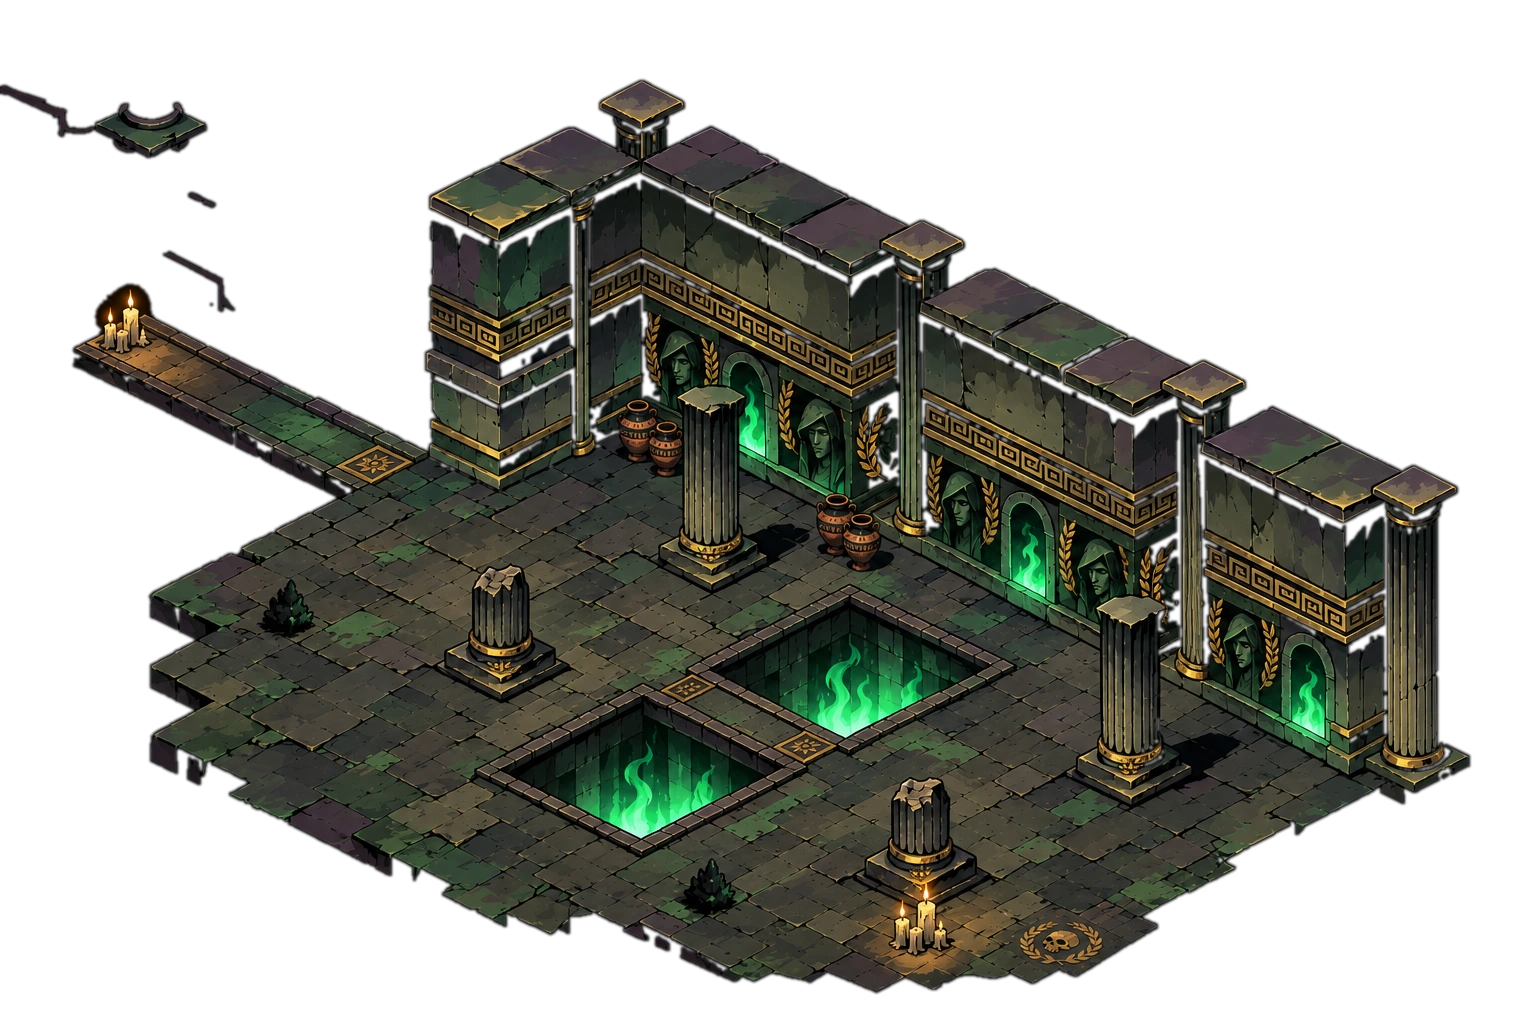
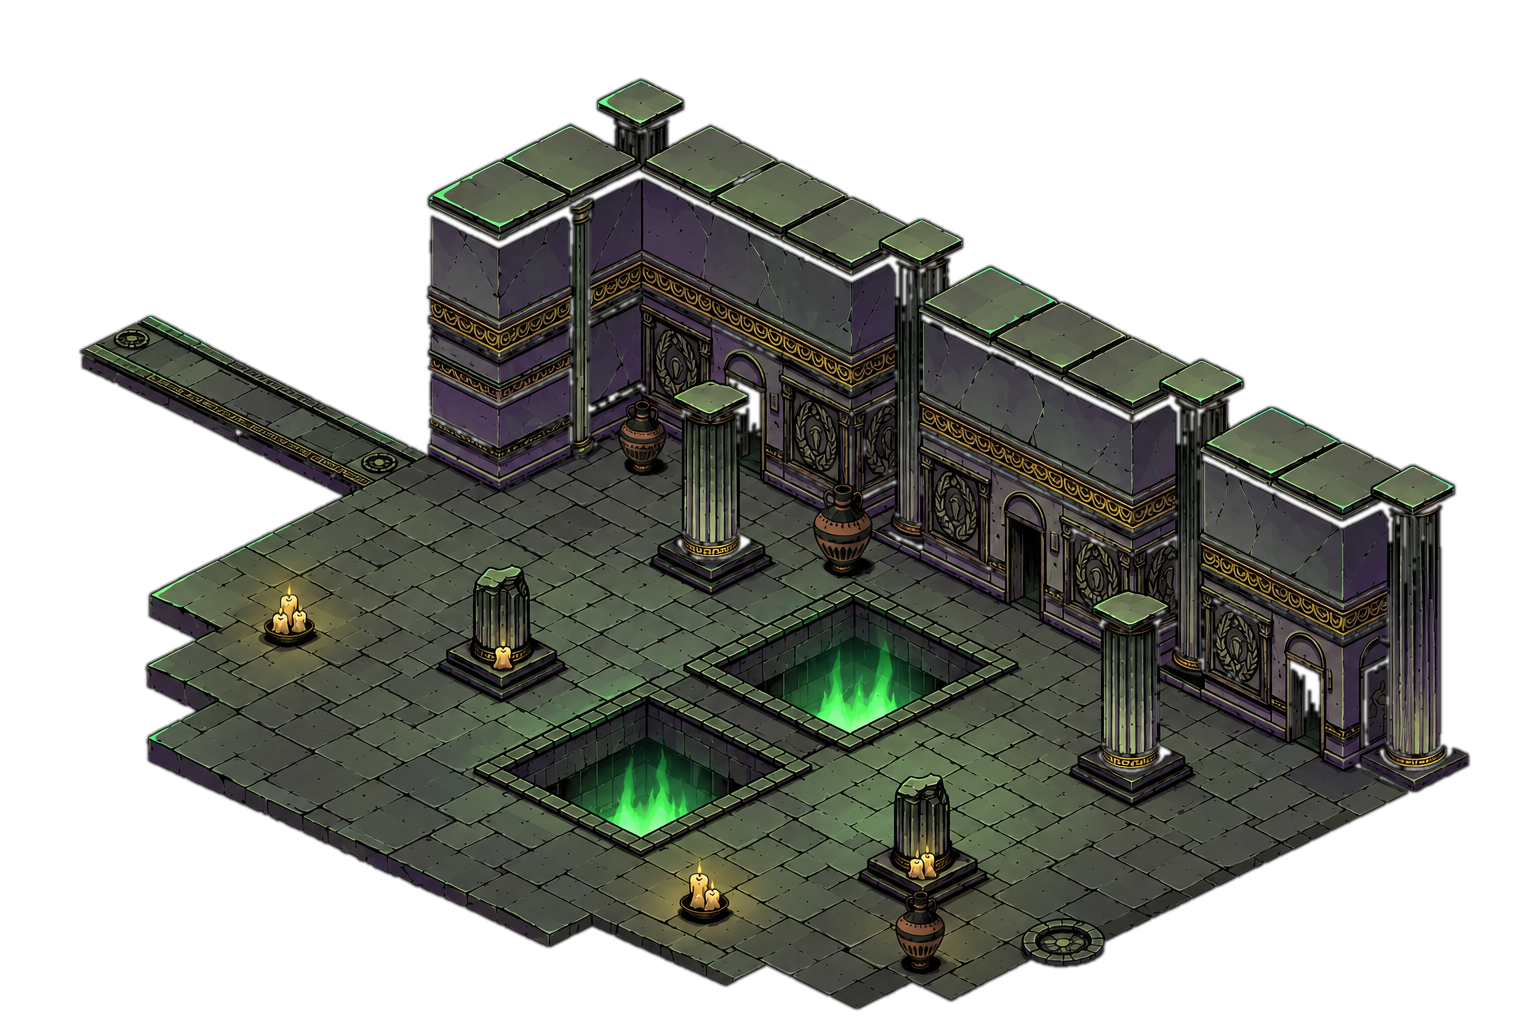
Restyle every temple room with the owner's inked v3 paintings
All five room paintings are replaced by the owner's v3 SOL restyles: heavy
black ink, flat cel shading and purple-tinted shadows, much closer to the
mockup. Each was checked against its guide (room 1 is an edge-for-edge
restyle of the painting it replaces); stray bits of neighbouring rooms were
blacked out, room 4's halves are cut along the terrace edge as before, and the
gallery painting's right end was shifted out one cell to cover column 77.
Props follow the new paintings.

The bot now only shoots a nest when a bullet-wide corridor to it is clear (it
kept firing into the column beside the altar's back nest).

Claude-Session: https://claude.ai/code/session_01SvL2i3XwgyMiUVEjEn1eMz

diff --git a/docs/paint_guides/README.md b/docs/paint_guides/README.md
@@ -12,11 +12,11 @@ the architecture where it is.
 | `temple_02_guide.png` | **current** 1536×1024 frame of the temple room (`--level=temple`), tall back walls, no HUD, no player |
 | `temple_02_lines.png` | the same frame as line art, for generators that follow outlines more strictly |
 | `temple_02_guide.json` | where the frame looks: `world_to_image` maps game positions to image pixels |
-| `stair_01_guide.png` / `_lines.png` / `_guide.json` | **room 4, upper half: THE GREAT STAIR** (the gallery and the stair down; `--look=65.94,2.44 --zoom=0.62`). `stair_01_painted_sol.webp` is the owner's SOL painting, in the game as `assets/rooms/stair_01` (gallery only). It leaves out the gallery's last two columns at the right (76-77) |
+| `stair_01_guide.png` / `_lines.png` / `_guide.json` | **room 4, upper half: THE GREAT STAIR** (the gallery and the stair down; `--look=65.94,2.44 --zoom=0.62`). `stair_01_painted_sol.webp` is the owner's SOL painting, in the game as `assets/rooms/stair_01` (gallery only). It stops at column 76; before import its painted right end (columns 75-76 and the edge lip) was copied one cell further along +i, so the floor reaches column 77 |
 | `undercroft_01_guide.png` / `_lines.png` / `_guide.json` | **room 4, lower half: THE UNDERCROFT** (the hall two levels down; `--look=71.94,12.98 --zoom=0.66`). `undercroft_01_painted_sol.webp` is the owner's SOL painting, in the game as `assets/rooms/undercroft_01` (everything below the terrace's top edge) |
 | `altar_01_guide.png` / `_lines.png` / `_guide.json` | **room 3, THE BONE ALTAR** (`--look=46.1,1.8 --zoom=0.72`). `altar_01_painted_sol.webp` is the owner's SOL painting of it, in the game as `assets/rooms/altar_01` |
 | `sanctum_01_guide.png` / `_lines.png` / `_guide.json` | **room 2, THE HOODED SANCTUM** (`--look=29.6,1.8 --zoom=0.72`). Prompt below. `sanctum_01_painted_sol.webp` is the owner's SOL painting of it, in the game as `assets/rooms/sanctum_01` |
-| `temple_01_*` | the first guide (closer framing). `temple_01_painted_sol.webp` is the first SOL painting (low walls); **`temple_01_painted_sol_v2_tall.webp` is the one in the game**: tall walls, painted at this guide's framing (the floor layout didn't change when the walls grew, so this guide's camera still fits) |
+| `temple_01_*` | the first guide (closer framing). `temple_01_painted_sol.webp` is the first SOL painting (low walls); `temple_01_painted_sol_v2_tall.webp` added tall walls at this guide's framing (the floor layout didn't change when the walls grew, so this guide's camera still fits); **`temple_01_painted_sol_v3.webp` is the one in the game**: the owner's inked restyle of v2 (same edges, heavy ink, purple shadows) |
 
 The step-by-step recipe for a new room is section 0 of `CLAUDE.md`. Helpers:
 `tools/rooms/guide_lines.py` (line art from a guide), `tools/rooms/check_paint.py`
@@ -29,6 +29,16 @@ VK_ICD_FILENAMES=/opt/lavapipe/lvp_icd.json xvfb-run -a -s "-screen 0 1536x1024x
   godot --path . --resolution 1536x1024 --fixed-fps 30 --audio-driver Dummy -- \
   --level=temple --look=5.0,7.6 --zoom=0.72 --paint-guide --shots=/tmp/guide --shot-every=5 --quit-after=2.2
 ```
+
+## The current style (v3)
+
+Every room painting in the game is now the owner's **v3** restyle: SOL repainted each
+earlier painting with heavy black ink, flat cel shading and purple-tinted shadows (same
+edges, so the layouts still match; only some props changed, and the layout's props were
+moved to match). The `*_painted_sol.webp` files are the v3 versions (room 1:
+`temple_01_painted_sol_v3.webp`; older versions are in git history). For a new room,
+attach one of them as a style reference with the mockup, so the room comes out in the
+same style.
 
 ## Prompt for SOL
 

diff --git a/CLAUDE.md b/CLAUDE.md
@@ -17,10 +17,10 @@ temple), built room by room. The rooms so far, all in `src/dungeon/layout_temple
 
 | # | Room (`ROOMS` id) | Map columns | State |
 |---|---|---|---|
-| 1 | THE SOUL-FIRE TEMPLE (`temple`) | 0-23 | painted (`assets/rooms/temple_01`) |
+| 1 | THE SOUL-FIRE TEMPLE (`temple`) | 0-23 | painted (`assets/rooms/temple_01`, the inked v3) |
 | 2 | THE HOODED SANCTUM (`sanctum`) | 26-37 | painted (`assets/rooms/sanctum_01`); its props were moved to match the painting |
 | 3 | THE BONE ALTAR (`altar`) | 42-54 | painted (`assets/rooms/altar_01`); no pit: a ritual hall with a central altar, three bone nests that spawn hounds until broken, fire urns, then a shielded elite Legionnaire; drops a chest and opens the exit portal. Props follow the painting (its banners became plain frieze, braziers and candles became painted shrubs) |
-| 4 | THE GREAT STAIR (`gallery`) + THE UNDERCROFT (`undercroft`) | 59-79, rows 0-19 | painted in two halves (`assets/rooms/stair_01` = the gallery, `undercroft_01` = everything below the terrace's top edge; each was masked to its half with `clip_paint.py` so they meet along that edge). SOL left out the gallery's last two columns at the right end (76-77), which still show kit tiles: repaint `stair_01` with that corner to finish it. L-shaped and on **two levels**: a long upper gallery (hounds and witches, then a Legionnaire and skulls), a grand stair cut into its front terrace, and a sunken hall 3.3 m below (Legionnaires in the hall while Hex Witches shoot down from the gallery, then a molten elite); drops a chest and opens the exit portal |
+| 4 | THE GREAT STAIR (`gallery`) + THE UNDERCROFT (`undercroft`) | 59-79, rows 0-19 | painted in two halves (`assets/rooms/stair_01` = the gallery, `undercroft_01` = everything below the terrace's top edge; each was masked to its half with `clip_paint.py` so they meet along that edge). SOL painted the gallery only to column 76; the painted right end was shifted out one cell to cover column 77 (see the paint guide README). L-shaped and on **two levels**: a long upper gallery (hounds and witches, then a Legionnaire and skulls), a grand stair cut into its front terrace, and a sunken hall 3.3 m below (Legionnaires in the hall while Hex Witches shoot down from the gallery, then a molten elite); drops a chest and opens the exit portal |
 
 Each room's right edge has a gold bridge (row 3) across the abyss to the next; the last
 room holds the exit portal (`X`, and `"exit": true` in its `ROOMS` entry), which
@@ -89,6 +89,12 @@ game renders ("paint guides"). Recipe for every new room:
    (`-- --bot --level=... --start=<room id> --quit-after=50`), and a rendered screenshot
    (`--look=... --shots=...`, section 6). If the room layout changes later, the painting no
    longer matches: render a new guide and repaint.
+
+**Current art style (v3, Nov 2026):** the owner had SOL restyle every room painting with
+heavy black ink, flat cel shading and purple-tinted shadows on green-grey stone, much closer
+to the mockup; all five rooms in the game use it. Keep new rooms in this style: attach one
+of the v3 paintings (`docs/paint_guides/*_painted_sol*.webp`) as a style reference next to
+the mockup.
 
 How it works: `src/dungeon/room_paint.gd` (painting = floor layer; walls/props draw it
 through `paint_cutout.gdshader` so they still hide actors behind them; tiles stay where
